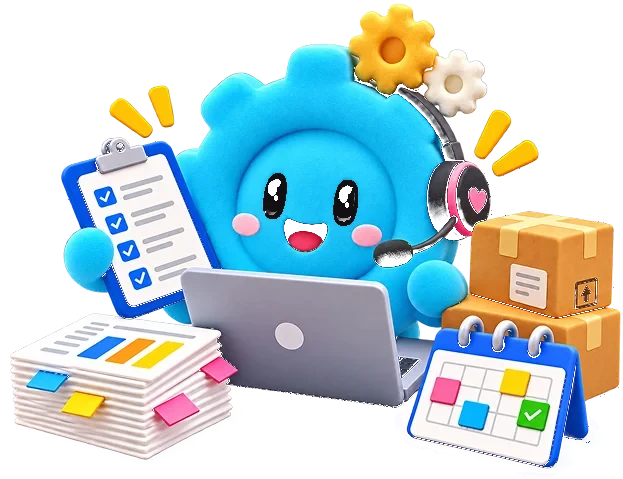
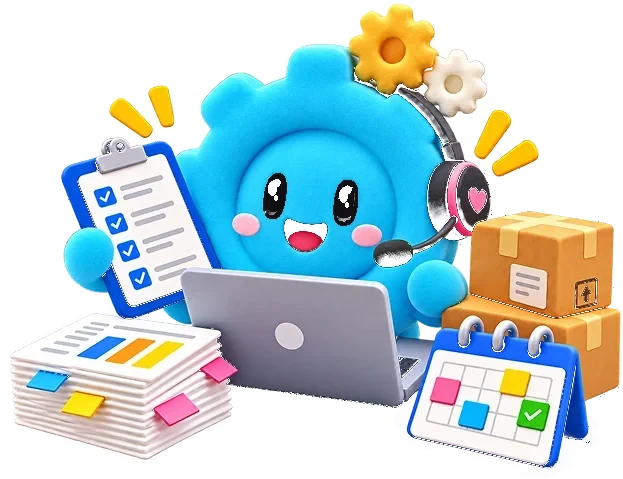
Add Contact Us to the navbar and fix Government art for staging.
Link Contact Us on desktop and mobile, and re-encode the public-sector illustration as VP8 WebP so it displays after deploy.

diff --git a/src/components/Navbar.jsx b/src/components/Navbar.jsx
@@ -206,7 +206,26 @@ export default function Navbar() {
             </div>
           </div>
           <a href="#" className="label-hide">Blog</a>
-          <NavLink to="/pricing" className="label-hide">Pricing</NavLink>
+          <NavLink
+            to="/pricing"
+            className="label-hide"
+            onClick={() => {
+              setProductOpen(false)
+              setSolutionsOpen(false)
+            }}
+          >
+            Pricing
+          </NavLink>
+          <NavLink
+            to="/contact"
+            className="label-hide"
+            onClick={() => {
+              setProductOpen(false)
+              setSolutionsOpen(false)
+            }}
+          >
+            Contact Us
+          </NavLink>
           <a href="mailto:inquiry@eveia.ai" className="cta">Request a Demo</a>
         </nav>
       </div>
@@ -365,6 +384,9 @@ export default function Navbar() {
 
               <NavLink to="/pricing" className="nav-mobile-direct-link" onClick={closeMobile}>
                 Pricing
+              </NavLink>
+              <NavLink to="/contact" className="nav-mobile-direct-link" onClick={closeMobile}>
+                Contact Us
               </NavLink>
               <a href="#blog" className="nav-mobile-direct-link" onClick={closeMobile}>
                 Blog
